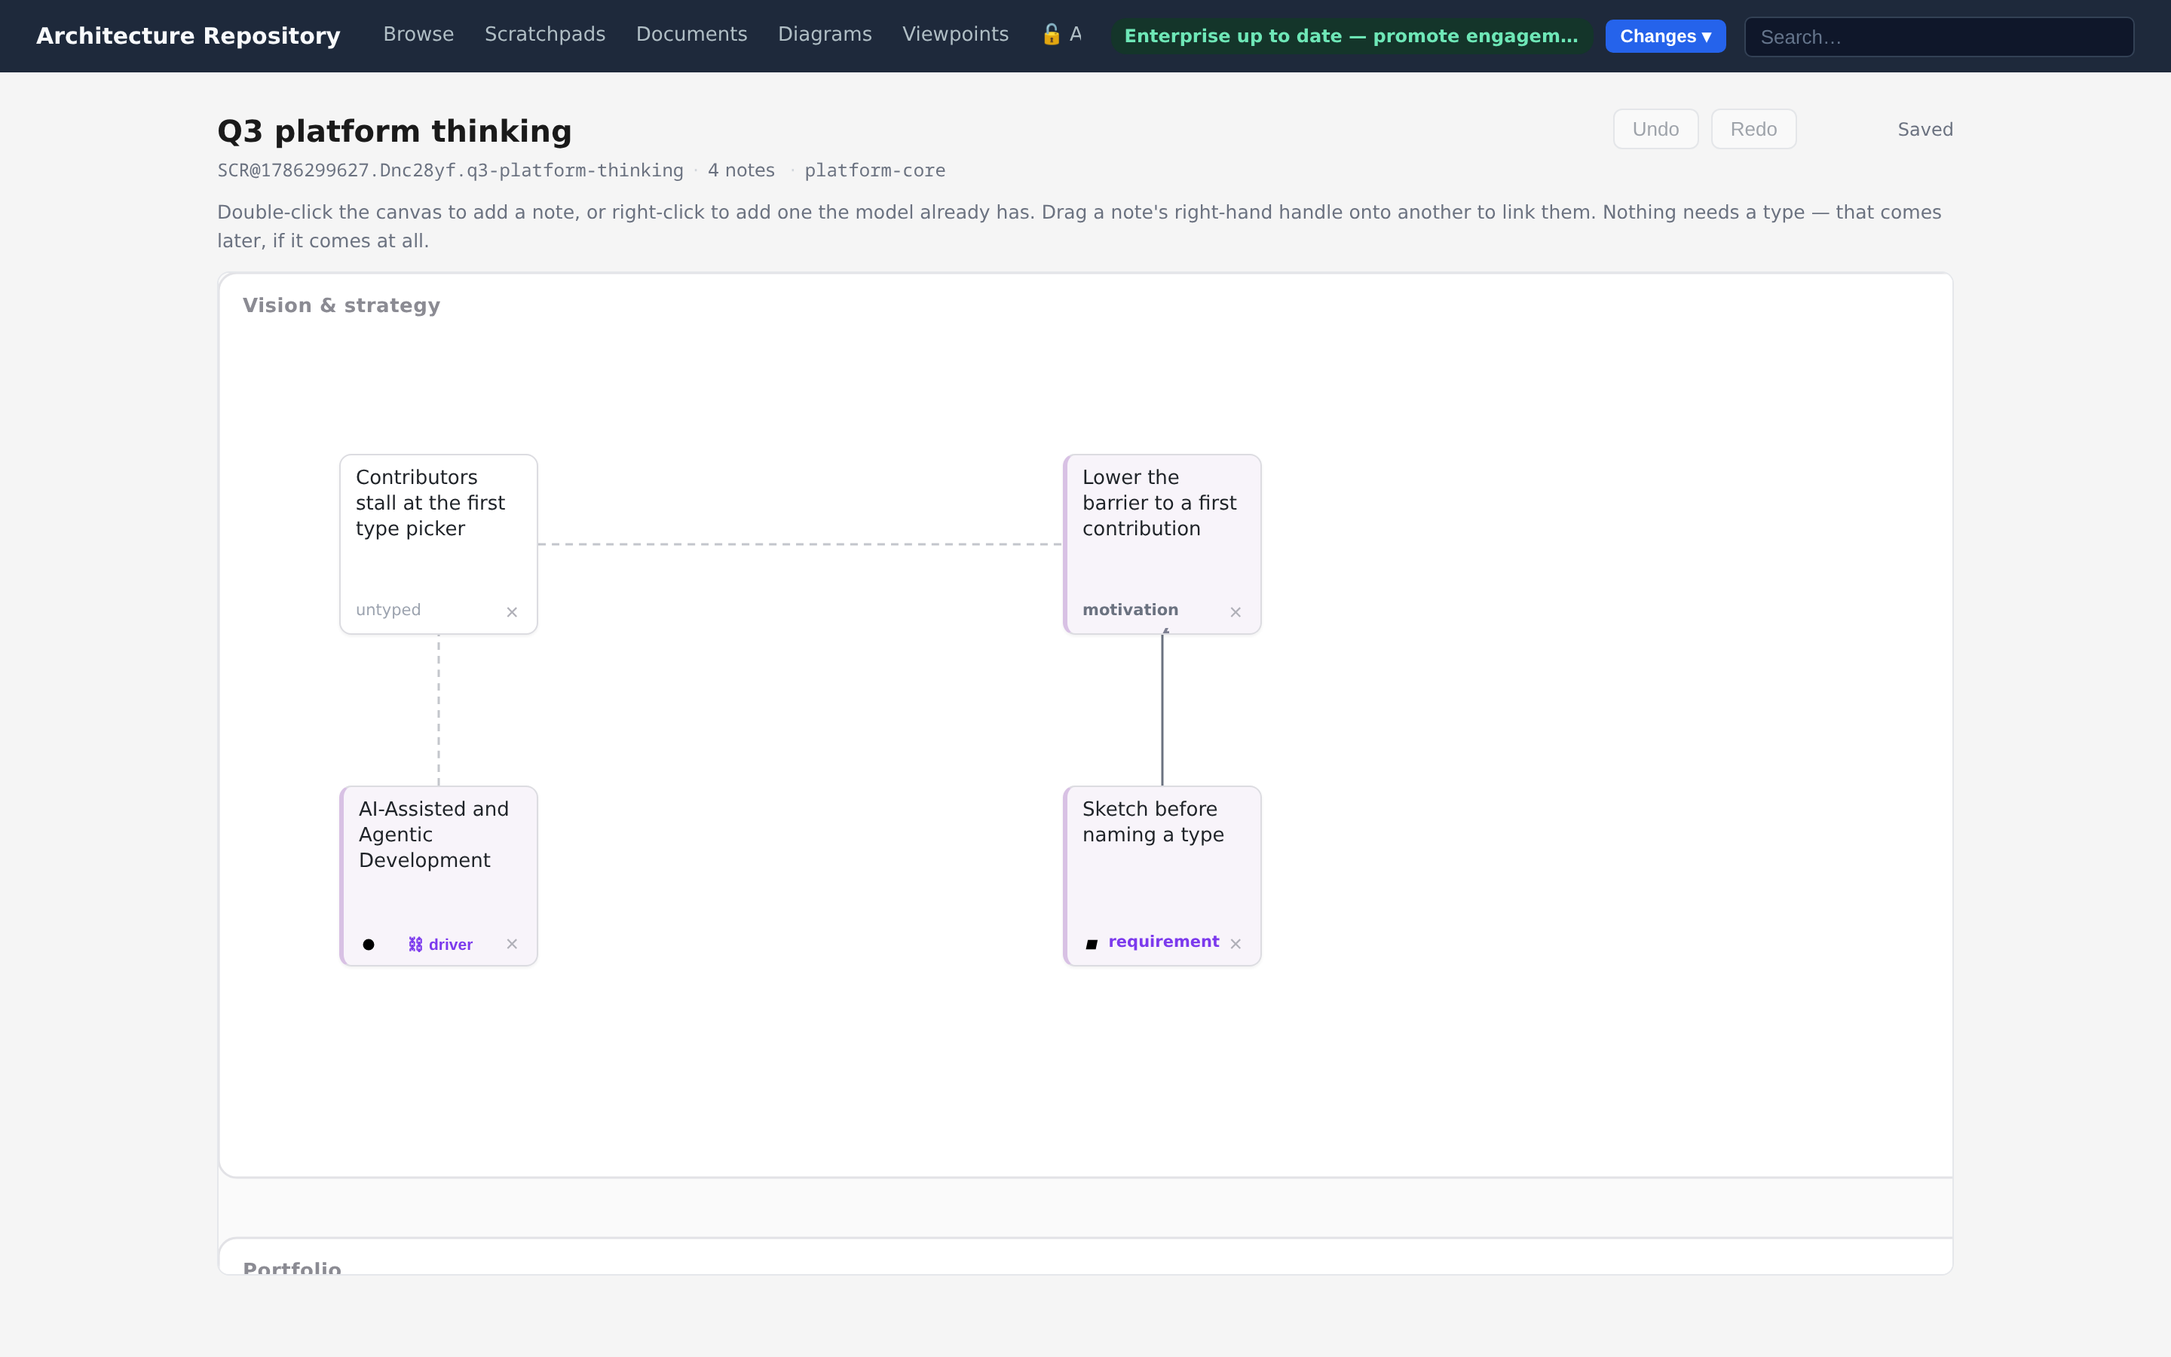
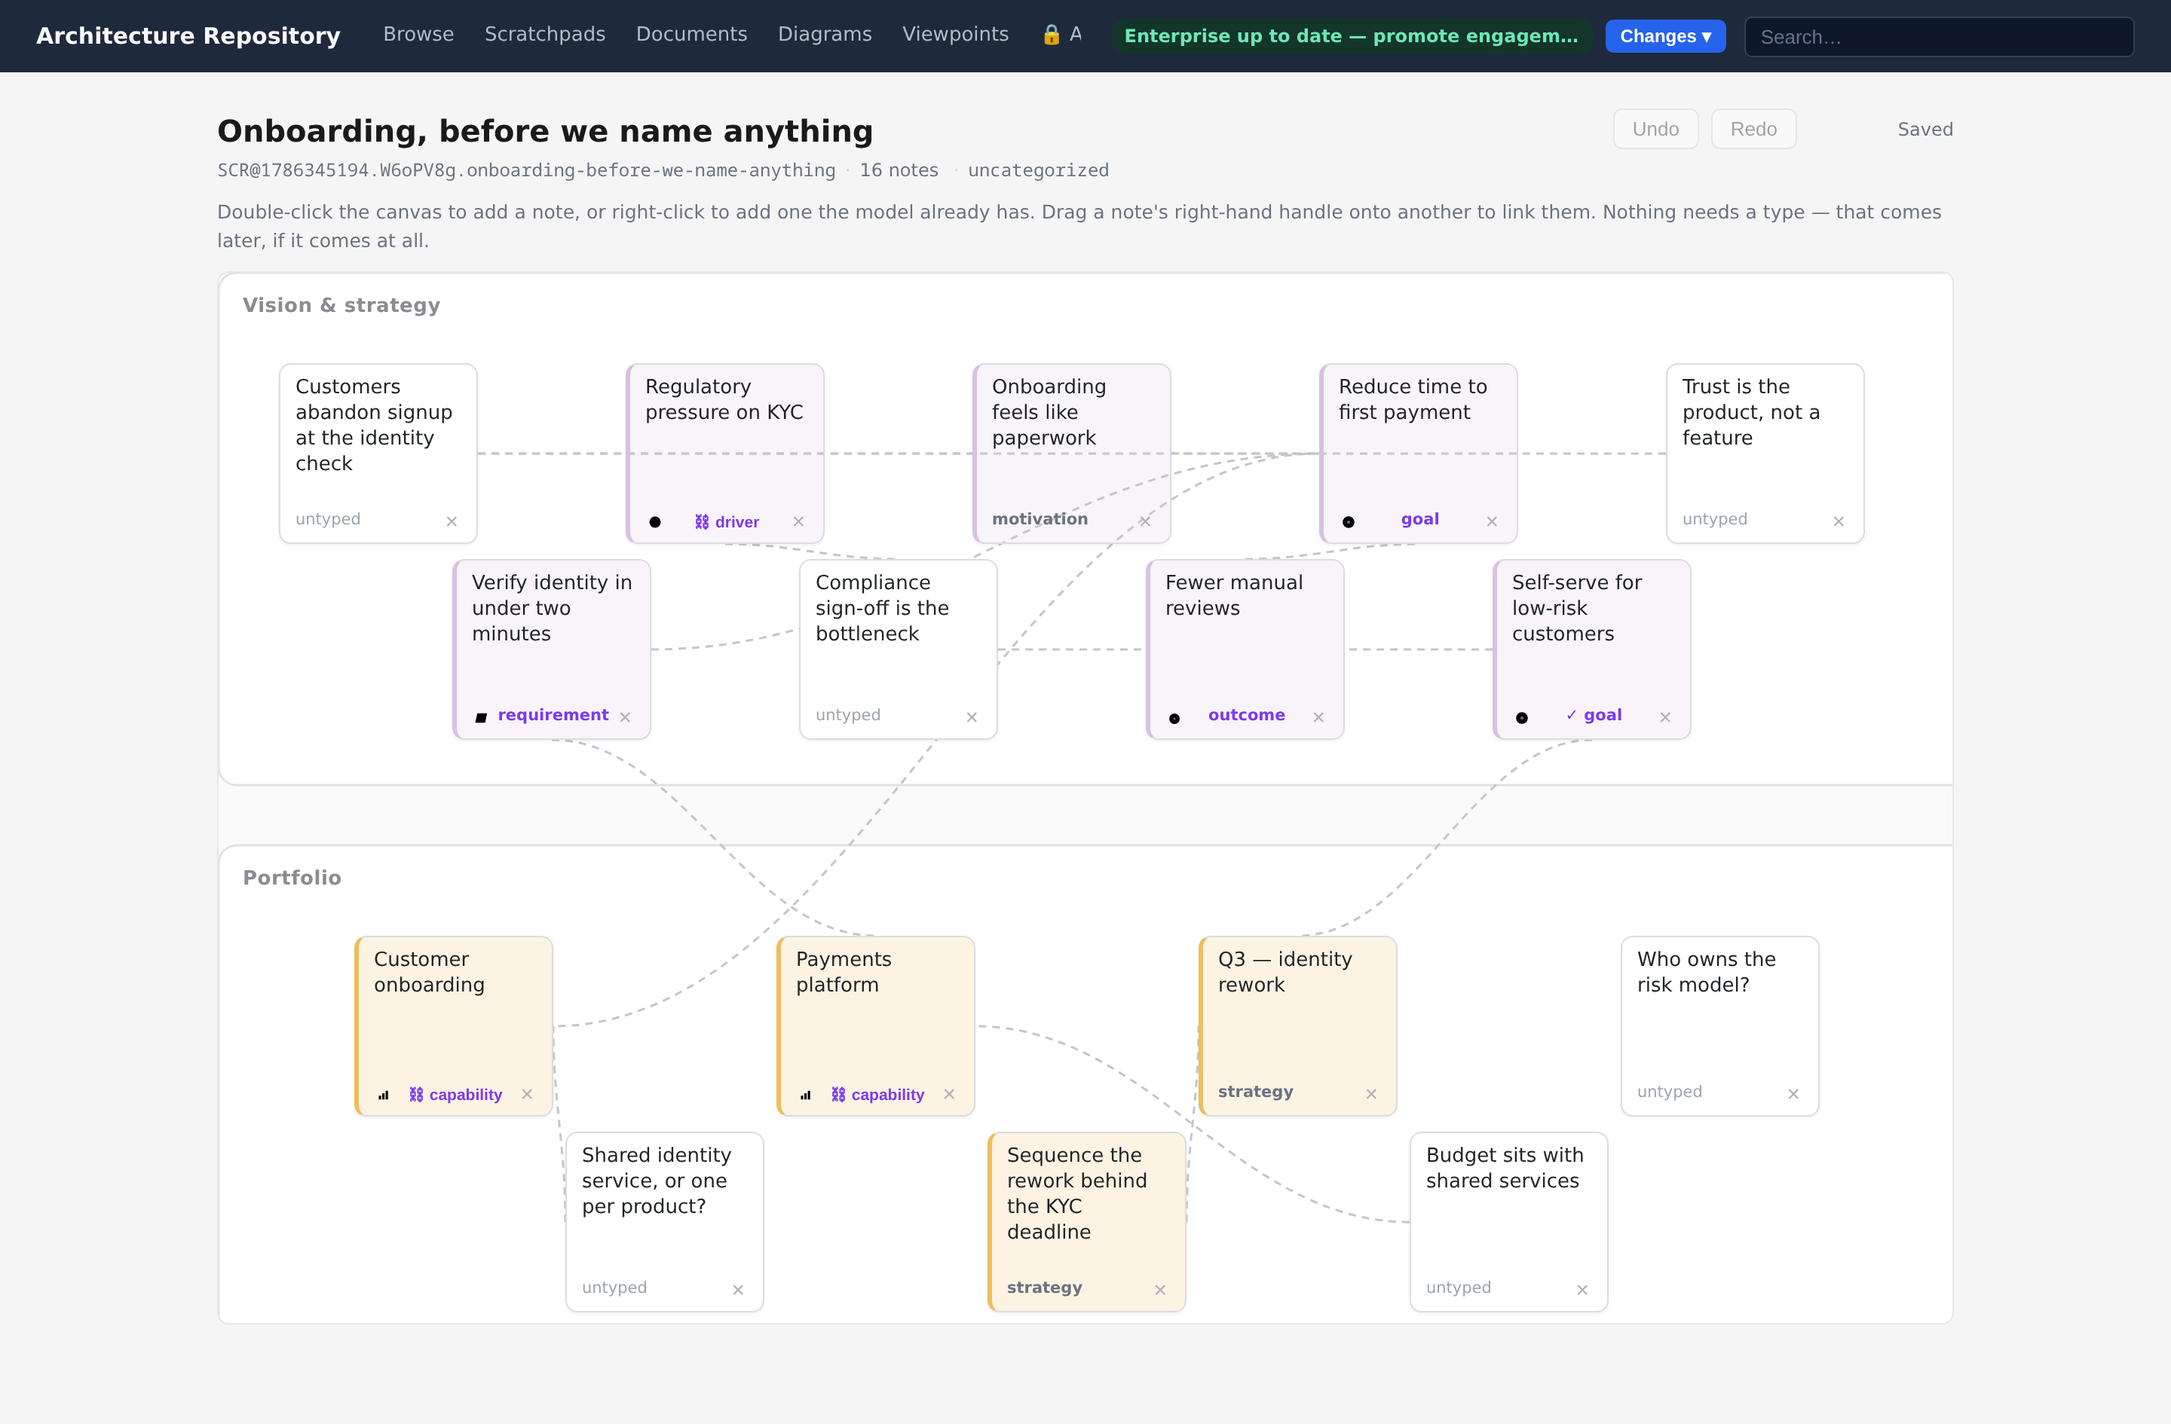
GUI: show that a note has been lifted; Docs: shoot the scratchpad mid-thought
The hero shot was four notes in the top corner of an empty frame, with a clipped frame below and
links too faint to read. It is a picture of a tier for *brainstorming*, so it should look like one.

It is now sixteen notes across two frames — six that have decided nothing, three narrowed to a
domain, three typed, two bound, one lifted — with the links that cross between the frames visible,
which is the whole argument for one canvas rather than four tabs. The frames are 340 tall rather
than 600 so two of them fit on screen; a shot of one frame cannot make that argument.

Taking it exposed a real gap: **a realized note looked exactly like a typed one.** `bound` was set
for any `model-ref`, and the chip fell through to the plain type, so the one state that says "this is
in the model now" was the only one the card did not show. A realized note now reads `✓ goal` in the
same green the bound chip uses, and carries its own class. It is deliberately not a button: a
binding is *released* from the card, a realization is *forgotten* from the panel, and those are
different acts with different consequences.

The fixture is seeded in a **separate, disposable workspace** rather than here, because the fifth
state cannot be faked — a realized note names an entity a lift created, and producing one in this
repository would leave an entity in the self-model that exists only to be photographed.
`tools/media/seed_scratchpad_hero.py` makes that workspace reproducible, lift included, and the
[…]

diff --git a/tools/gui/tests/media/scratchpadMedia.spec.ts b/tools/gui/tests/media/scratchpadMedia.spec.ts
@@ -4,31 +4,49 @@ import { capture, watch, type CaptureProvenance } from './mediaHelpers'
 /**
  * The README's picture of the scratchpad tier.
  *
- * Driven from a **committed fixture** rather than content the test invents, so the shot is
- * reproducible and the thing it shows is the thing the repository actually holds. The four notes
- * are the progression the tier exists for, side by side: one that has decided nothing, one narrowed
- * to its domain, one typed, and one bound to an element the model already had.
+ * Taken against a **separate, disposable workspace** rather than this repository, and pointed at it
+ * with `E2E_BASE_URL` and `HERO_SCRATCHPAD`. The reason is the fifth state: a *realized* note names
+ * an entity a lift created, so it cannot be written by hand without putting a reference to nothing
+ * into a file that claims otherwise — and producing one here would leave an entity in the
+ * self-model that exists only to be photographed.
+ *
+ * Reproducible rather than hand-made: `tools/media/seed_scratchpad_hero.py` builds the fixture,
+ * lift included, and its docstring carries the four commands that stand the workspace up.
+ *
+ * The subject is the progression the tier exists for, on a canvas that looks like it is being
+ * thought on: sixteen notes, most undecided, and five stages side by side — nothing decided, a
+ * domain, a type, a binding to an element that already existed, and one lifted into the model.
  */
 
-const SCRATCHPAD = 'SCR@1786299627.Dnc28yf.q3-platform-thinking'
+const SCRATCHPAD = process.env.HERO_SCRATCHPAD ?? ''
+
 
 test('the scratchpad canvas, with a note at each stage of deciding', async ({ page }) => {
+  test.skip(!SCRATCHPAD, 'HERO_SCRATCHPAD is unset: see tools/media/seed_scratchpad_hero.py')
   const problems = watch(page)
+  // Taller than the media default, so two frames fit — a shot of one frame cannot show a link
+  // crossing between them, and those links are the argument for one canvas rather than four tabs.
+  await page.setViewportSize({ width: 1440, height: 945 })
   await page.goto(`/scratchpads/${encodeURIComponent(SCRATCHPAD)}`, { waitUntil: 'load' })
 
   await expect(page.locator('[data-testid="scratchpad-canvas"]')).toBeVisible({ timeout: 30_000 })
-  await expect(page.locator('.sp-note')).toHaveCount(4)
+  await expect(page.locator('.sp-note')).toHaveCount(16)
   // The progression is the subject: assert each stage is on screen rather than trusting the
   // fixture to have stayed as it was written.
-  await expect(page.locator('.sp-note .sp-untyped')).toHaveCount(1)
-  await expect(page.locator('.sp-note .sp-domain')).toHaveCount(1)
-  await expect(page.locator('.sp-note.bound')).toHaveCount(1)
-  await expect(page.locator('.sp-link.typed')).not.toHaveCount(0)
+  await expect(page.locator('.sp-note .sp-untyped')).toHaveCount(6)
+  await expect(page.locator('.sp-note .sp-domain')).toHaveCount(3)
+  await expect(page.locator('.sp-note.bound')).toHaveCount(3)
+  await expect(page.locator('.sp-note.realized')).toHaveCount(1)
+  // Both frames on screen, and the links that cross between them.
+  await expect(page.locator('.sp-area')).toHaveCount(4)
+  await expect(page.locator('.sp-link:not(.drawing)')).toHaveCount(14)
 
   const provenance: CaptureProvenance = {
     test_name: 'the scratchpad canvas, with a note at each stage of deciding',
     artifact_ids: [SCRATCHPAD],
-    synthetic_augmentation: false,
+    // The workspace is seeded for the shot, which is the honest word for it — but every note,
+    // link and the realization are produced through the product's own write path, not drawn.
+    synthetic_augmentation: true,
   }
   await capture(page, 'scratchpad-hero.png', provenance)
   expect(problems).toEqual([])

diff --git a/tools/gui/src/ui/components/ScratchpadNote.vue b/tools/gui/src/ui/components/ScratchpadNote.vue
@@ -64,7 +64,8 @@ const emit = defineEmits<{
     :class="{
       selected: selected,
       typed: !!note['element-type'],
-      bound: !!note['model-ref'],
+      bound: note['model-ref']?.kind === 'bound',
+      realized: note['model-ref']?.kind === 'realized',
     }"
     :data-note-id="note.id"
     :data-area="note.area"
@@ -113,6 +114,15 @@ const emit = defineEmits<{
       >
         ⛓ {{ note['element-type'] }}
       </button>
+      <!-- Realized is not the same fact as typed, and read only the type chip they looked
+           identical — the one state that says "this is in the model now" was the one the card did
+           not show. It is not a button: a binding is released from here, a realization is *forgotten*
+           from the panel, which is a different act with a different consequence. -->
+      <span
+        v-else-if="note['model-ref']?.kind === 'realized'"
+        class="sp-type sp-realized"
+        :title="`Realized as ${note['model-ref']['artifact-id']}`"
+      >✓ {{ note['element-type'] }}</span>
       <span
         v-else-if="note['element-type']"
         class="sp-type"
@@ -165,13 +175,14 @@ const emit = defineEmits<{
 /* The domain is the tint; the border simply becomes visible once anything has been decided. A
    note that has decided nothing wears nothing, which is the state the feature exists to allow. */
 .sp-note.typed, .sp-note[data-domain]:not([data-domain='']) { border-left: 3px solid #7c3aed; }
-.sp-note.bound { border-left: 3px solid #059669; }
+.sp-note.bound, .sp-note.realized { border-left: 3px solid #059669; }
 .sp-glyph { width: 13px; height: 13px; flex: 0 0 auto; color: #6b7280; }
 .sp-bound {
   border: none; background: none; padding: 0; cursor: pointer;
   color: #059669; font-size: 10.5px; font-weight: 600;
 }
 .sp-bound:hover { text-decoration: line-through; }
+.sp-realized { color: #059669; }
 /* The title *is* the note: it takes the whole card and the metadata sits under it, rather than the
    other way round. A thought is what this holds. */
 .sp-title {

diff --git a/tools/media/seed_scratchpad_hero.py b/tools/media/seed_scratchpad_hero.py
@@ -1,0 +1,141 @@
+"""Seed the demo workspace the README's scratchpad picture is taken from.
+
+The shot needs something a scratchpad honestly looks like mid-thought: a couple of dozen notes,
+most of them undecided, a few narrowed, two bound to elements that already exist, and one that has
+been **lifted** and so carries a realization. The last of those cannot be faked — a realized note
+names an entity a lift created, and writing one by hand would put a reference to nothing into a
+file that claims otherwise.
+
+It also cannot be produced in *this* repository without leaving an entity behind that exists only
+to be photographed. So the picture comes from a **separate, disposable workspace**, and this script
+is what makes it reproducible: run it against a freshly initialised instance and the fixture is the
+same one every time, down to the ids being the only thing that differs.
+
+    mkdir -p ~/architectonic-hero/{engagements/ENG-DEMO/architecture-repository,enterprise-repository}
+    # …arch-workspace.yaml naming both as `local:`, `git init` in each, then:
+    arch-init --initialize-engagement-repo-if-empty --initialize-enterprise-repo-if-empty
+    arch-backend --daemon --port 8377
+    python tools/media/seed_scratchpad_hero.py --base http://localhost:8377
+    # then, from tools/gui:
+    E2E_BASE_URL=http://localhost:8377 npx playwright test --project=media tests/media/scratchpadMedia.spec.ts
+
+The frames are deliberately shorter than the seeded default (340 rather than 600), so **two of them
+fit on screen at once**. A shot of one frame cannot show a link crossing between frames, and those
+links are the whole argument for one canvas rather than four tabs.
+"""
+
+from __future__ import annotations
+
+import argparse
+import json
+import urllib.parse
+import urllib.request
+
+#: Two rows per frame, so each frame reads as a working surface rather than as a margin.
+NOTES: tuple[tuple[str, str, dict[str, object], tuple[int, int]], ...] = (
+    # ── Vision & strategy ────────────────────────────────────────────────────
+    ("n1", "Customers abandon signup at the identity check", {}, (40, 60)),
+    ("n2", "Regulatory pressure on KYC", {"bind": "driver"}, (270, 60)),
+    ("n3", "Onboarding feels like paperwork", {"domain": "motivation"}, (500, 60)),
+    ("n4", "Reduce time to first payment", {"type": "goal"}, (730, 60)),
+    ("n5", "Trust is the product, not a feature", {}, (960, 60)),
+    ("n6", "Verify identity in under two minutes", {"type": "requirement"}, (155, 190)),
+    ("n7", "Compliance sign-off is the bottleneck", {}, (385, 190)),
+    ("n8", "Fewer manual reviews", {"type": "outcome"}, (615, 190)),
+    # Lifted below, which is what makes it the one realized note on the canvas.
+    ("n9", "Self-serve for low-risk customers", {"type": "goal"}, (845, 190)),
+    # ── Portfolio ────────────────────────────────────────────────────────────
+    ("n10", "Customer onboarding", {"bind": "capability"}, (90, 440)),
+    ("n11", "Payments platform", {"bind": "capability"}, (370, 440)),
+    ("n12", "Q3 — identity rework", {"domain": "strategy"}, (650, 440)),
+    ("n13", "Who owns the risk model?", {}, (930, 440)),
+    ("n14", "Shared identity service, or one per product?", {}, (230, 570)),
+    ("n15", "Sequence the rework behind the KYC deadline", {"domain": "strategy"}, (510, 570)),
+    ("n16", "Budget sits with shared services", {}, (790, 570)),
+)
+
+#: The last three cross frames, which is the picture's point.
+LINKS: tuple[tuple[str, str, str], ...] = (
+    ("l1", "n1", "n3"), ("l2", "n2", "n7"), ("l3", "n3", "n4"), ("l4", "n6", "n4"),
+    ("l5", "n8", "n4"), ("l6", "n7", "n8"), ("l7", "n5", "n1"), ("l8", "n9", "n8"),
+    ("l12", "n14", "n10"), ("l13", "n15", "n12"), ("l14", "n16", "n11"),
+    ("l9", "n4", "n10"), ("l10", "n9", "n12"), ("l11", "n6", "n11"),
+)
+
+AREAS = {
+    "strategy": [0, 0, 1200, 340],
+    "portfolio": [0, 380, 1200, 340],
+    "project": [0, 760, 1200, 340],
+    "enabling": [0, 1140, 1200, 340],
+}
+
+#: Bound notes need something that already exists, so the model gets these first.
+SEED_ENTITIES = (
+    ("capability", "Customer onboarding"),
+    ("capability", "Payments platform"),
+    ("driver", "Regulatory pressure on KYC"),
+)
+
+
+def call(base: str, method: str, path: str, body: object | None = None) -> dict:
+    data = json.dumps(body).encode() if body is not None else None
+    request = urllib.request.Request(
+        f"{base}{path}", data=data, method=method, headers={"content-type": "application/json"}
+    )
+    with urllib.request.urlopen(request) as response:  # noqa: S310 — a localhost backend the caller named
+        return json.loads(response.read() or b"{}")
+
+
+def main() -> None:
+    parser = argparse.ArgumentParser(description=__doc__)
+    parser.add_argument("--base", default="http://localhost:8377")
+    parser.add_argument("--name", default="Onboarding, before we name anything")
+    arguments = parser.parse_args()
+    base = arguments.base.rstrip("/")
+
+    created: dict[str, str] = {}
+    for artifact_type, name in SEED_ENTITIES:
+        answer = call(base, "POST", "/api/entities", {
+            "artifact_type": artifact_type, "name": name, "dry_run": False,
+            "summary": "Seeded so the scratchpad has something real to bind to.",
+        })
+        created[name] = answer["artifact-id"]
+
+    scratchpad = call(base, "POST", "/api/scratchpads", {"name": arguments.name})
+    identifier = urllib.parse.quote(scratchpad["artifact-id"], safe="")
+
+    def note_body(note_id: str, title: str, shape: dict[str, object]) -> dict[str, object]:
+        if "bind" in shape:
+            return {
+                "id": note_id, "title": title, "destination": "element",
+                "element-type": shape["bind"],
+                "model-ref": {"artifact-id": created[title], "kind": "bound"},
+            }
+        if "type" in shape:
+            return {"id": note_id, "title": title, "destination": "element", "element-type": shape["type"]}
+        if "domain" in shape:
+            return {"id": note_id, "title": title, "destination": "element", "domain": shape["domain"]}
+        return {"id": note_id, "title": title}
+
+    filled = call(base, "PATCH", f"/api/scratchpads/{identifier}", {
+        "version": scratchpad["version"],
+        "upsert": {
+            "notes": [note_body(nid, title, shape) for nid, title, shape, _ in NOTES],
+            "links": [{"id": lid, "source": s, "target": t} for lid, s, t in LINKS],
+        },
+        "layout": {"notes": {nid: list(at) for nid, _, _, at in NOTES}, "areas": AREAS},
+    })
+
+    # One real lift, so one note is genuinely realized rather than described as one.
+    lifted = call(base, "POST", f"/api/scratchpads/{identifier}/lift", {
+        "version": filled["version"], "selection": ["n9"], "targets": {},
+        "draw": False, "dry-run": False,
+    })
+    if not lifted.get("committed"):
+        raise SystemExit(f"the lift did not commit: {lifted.get('refusal') or lifted}")
+
+    print(scratchpad["artifact-id"])
+
+
+if __name__ == "__main__":
+    main()

diff --git a/README.md b/README.md
@@ -92,10 +92,11 @@ More on the audience in [Who it serves](docs/01-motivation.md#who-it-serves).
 
 **Start before you know what anything is.** A scratchpad holds notes and the links between them with
 no ontology involved — then narrows them a level at a time, and lifts what survives into ordinary,
-verified model content. Here one note has decided nothing, one has reached its domain, one is typed,
-and one is bound to an element the model already had:
+verified model content. Most of these have decided nothing. Some have reached a domain, some a type;
+two are bound to elements the model already had, and one — `✓ goal` — has been lifted and is in the
+model now. The links crossing between the frames are why this is one canvas rather than four tabs:
 
-![A scratchpad: an untyped note, one narrowed to a domain, one typed, and one bound to an existing element](docs/media/scratchpad-hero.png)
+![A scratchpad mid-thought: sixteen notes across two frames, most undecided, some narrowed to a domain or a type, two bound to existing elements and one already lifted into the model](docs/media/scratchpad-hero.png)
 
 &nbsp;
 
